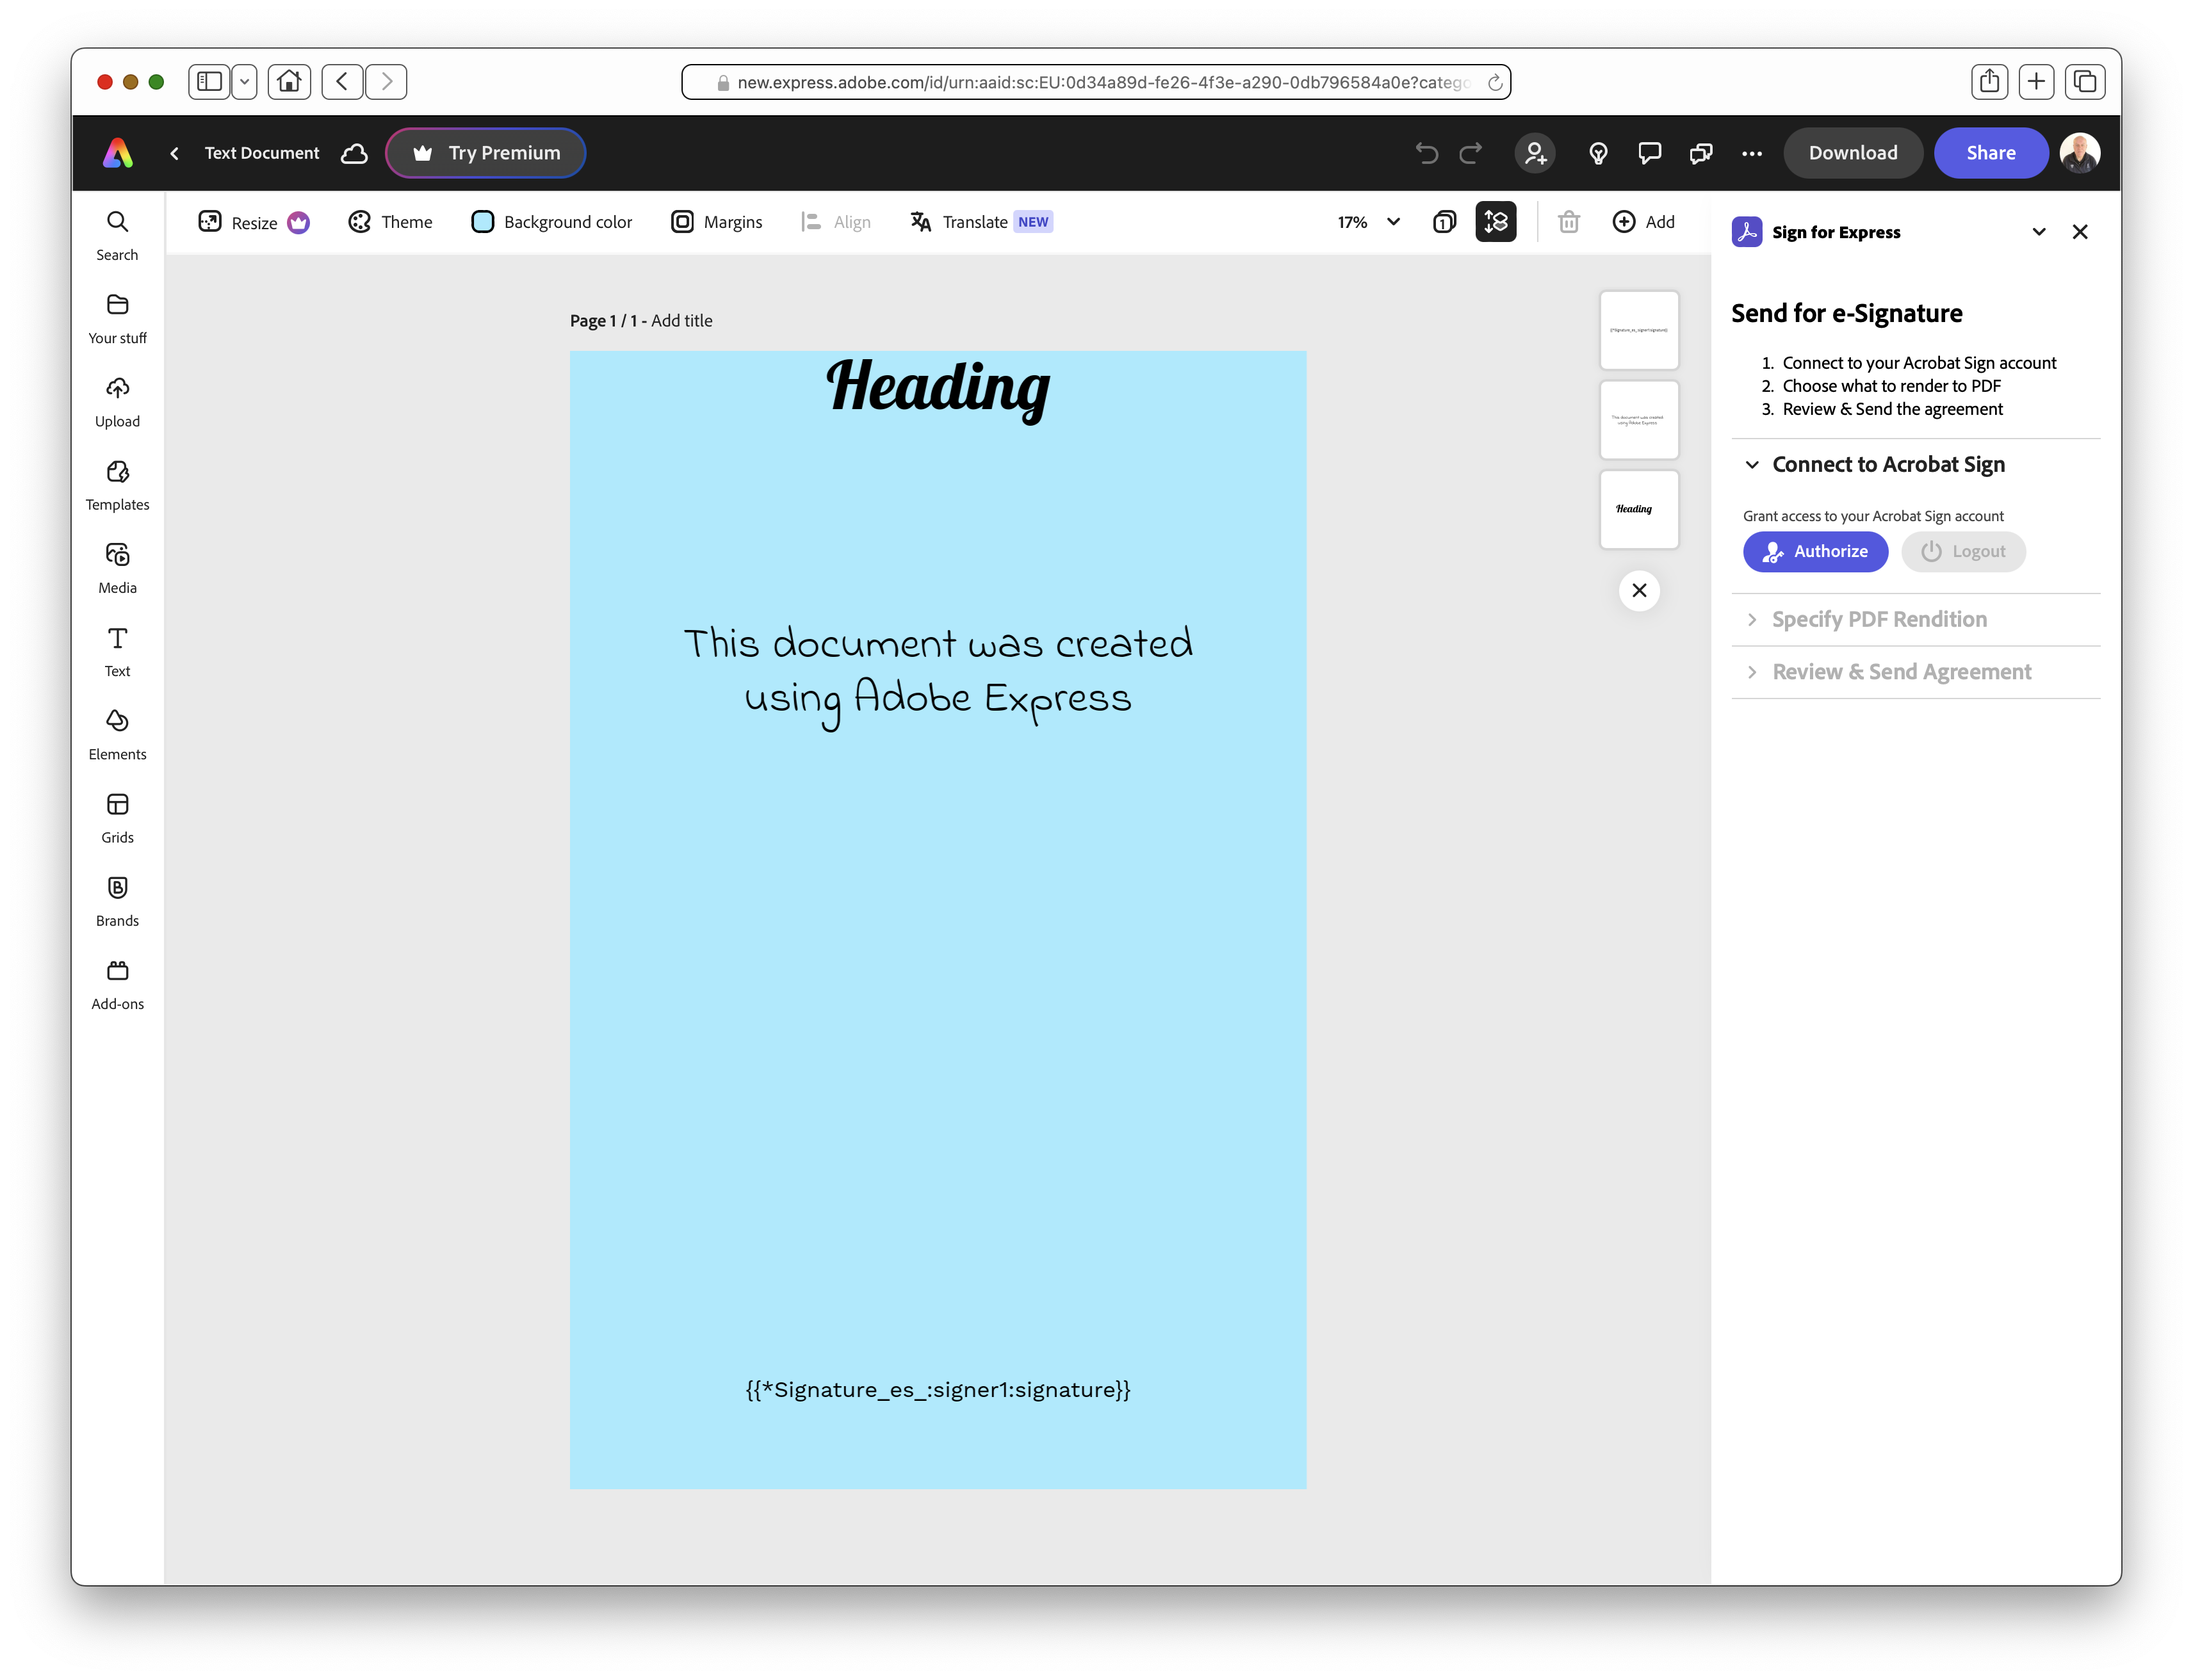
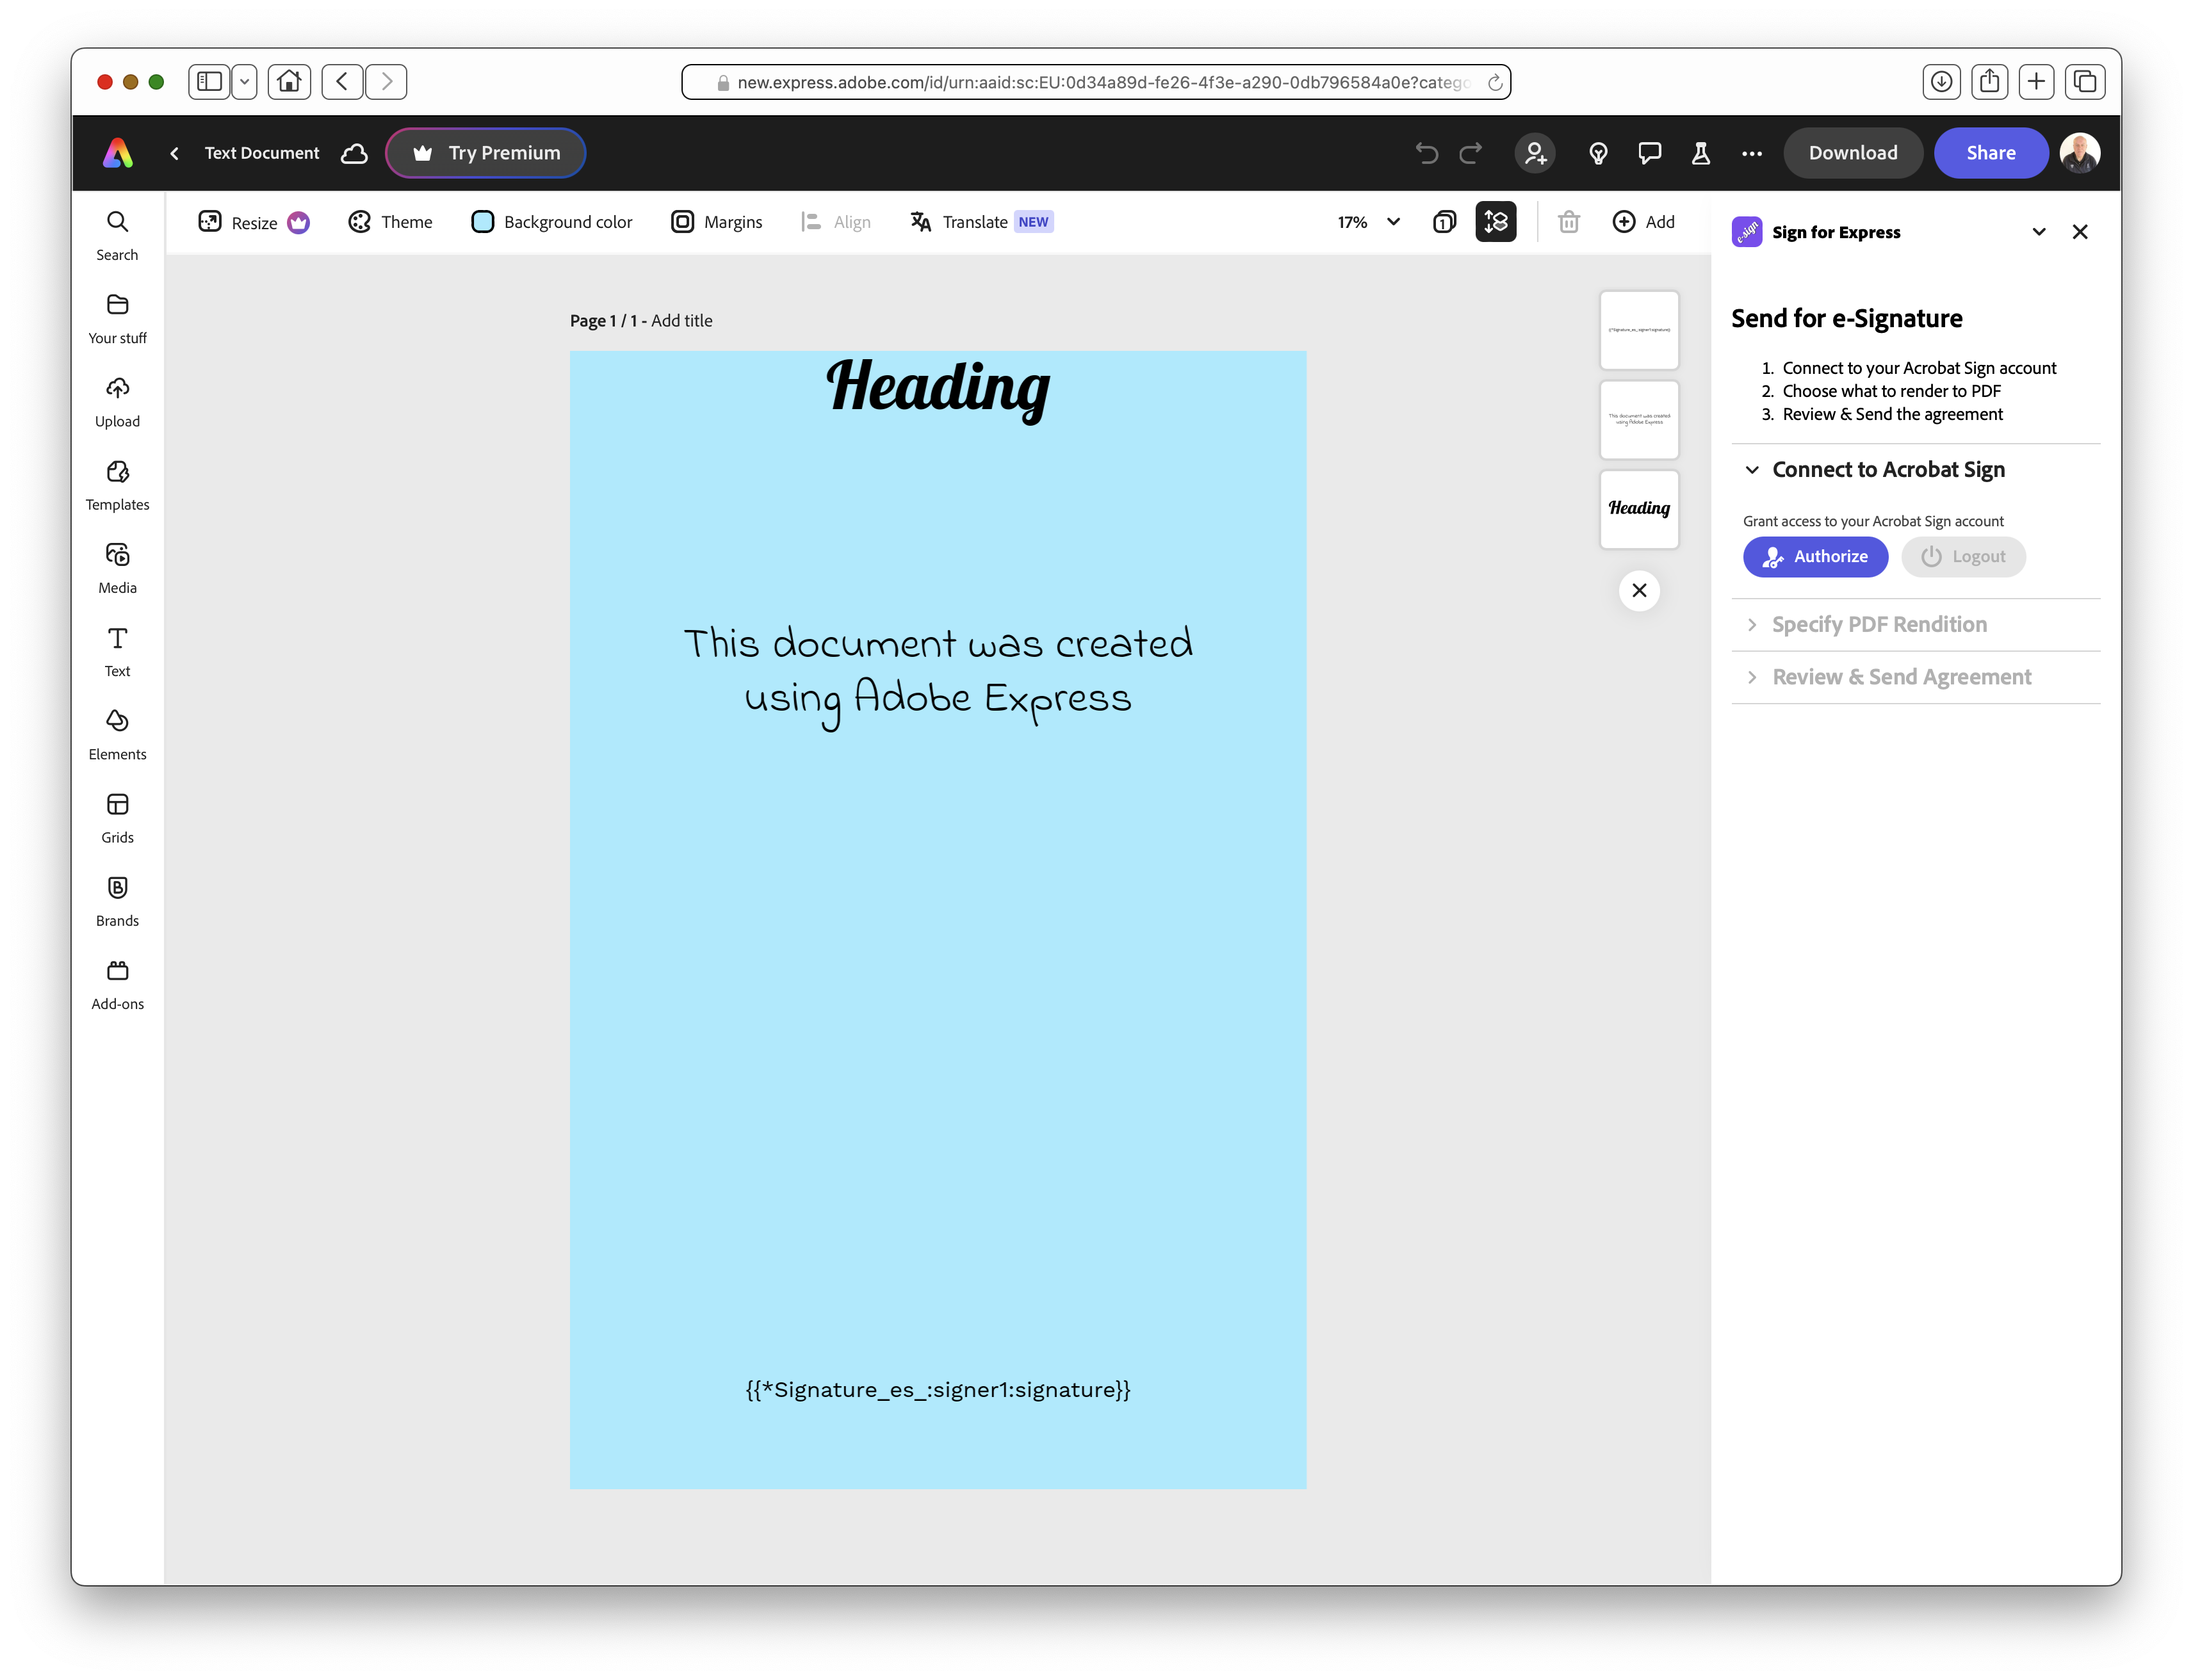
Image updates

Changed region(s): [[0.7812, 0.1875, 0.9375, 0.4062], [0.875, 0.0312, 0.9062, 0.0625], [0.7812, 0.125, 0.8125, 0.1562]]

diff --git a/sign-for-express/index.html b/sign-for-express/index.html
@@ -14,7 +14,7 @@
 		<title>Sign for Express</title>
 	</head>
 	<body>
-		<img class="logo" src="/images/e-sign-logo.png" width="144" height="144" alt="e-sign logo"/>
+		<img class="logo" src="/images/logo-purple.png" width="144" height="144" alt="e-sign logo"/>
 		<h1>Sign for Express</h1>
 		<ul>
 			<li><a href="#intro">Introduction</a></li>
